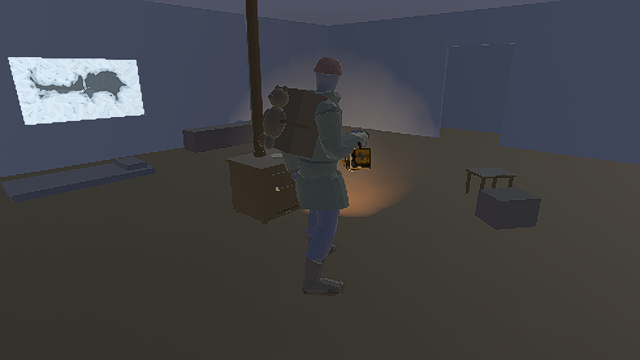
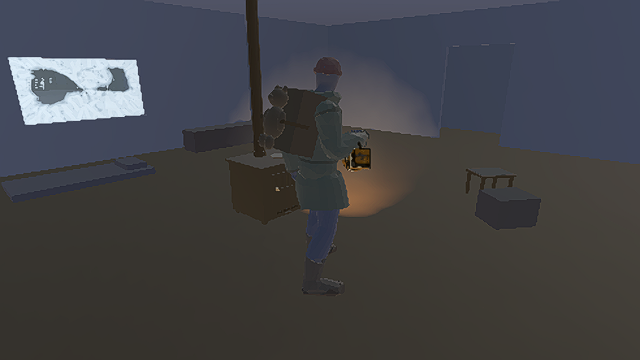
Place NORTHBEAM pickup on 727 entrance counter

Changed region(s): [[0.0312, 0.1833, 0.2188, 0.3056]]

diff --git a/docs/runtime_previews/key_west_727/searchlight/game_ready/README.md b/docs/runtime_previews/key_west_727/searchlight/game_ready/README.md
@@ -8,10 +8,14 @@ four materials, retaining separate glass and NORTHBEAM markings. Mesh QA passes
 with two reported seam/contact warnings; the atlas budget check passes.
 
 The `searchlight` ItemResource is CARRIED and weighs 2.8 kg. The single authored
-727 pickup has world ID `searchlight_727_toolbench`. It uses the existing pickup
+727 pickup has world ID `searchlight_727_reception` and sits on the reception
+counter beside the entrance. It uses the existing pickup
 ledger, inventory and right-hand HeldFit. The Hub Use route draws it from the
 pack. RMB toggles the held SpotLight3D; per-instance inventory state retains the
 switch value across save/load, while stowing removes the live light.
+The 727 runtime capture asserts that the pickup is on the reception countertop
+within 3 m of the entrance, then picks it up through `ItemPickup` and presents
+the owned item. It has its own persistent world ID, so a taken copy stays gone.
 
 Light: warm SpotLight3D, energy 12, range 18 m, 27° cone, shadows enabled,
 shadow bias 0.03 and normal bias 0.3. Lens glow is a separate unshaded optical
